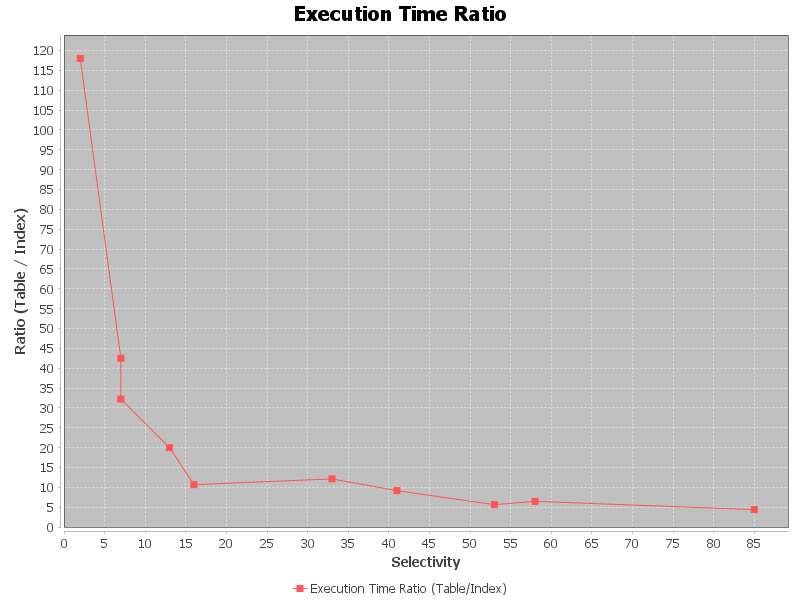
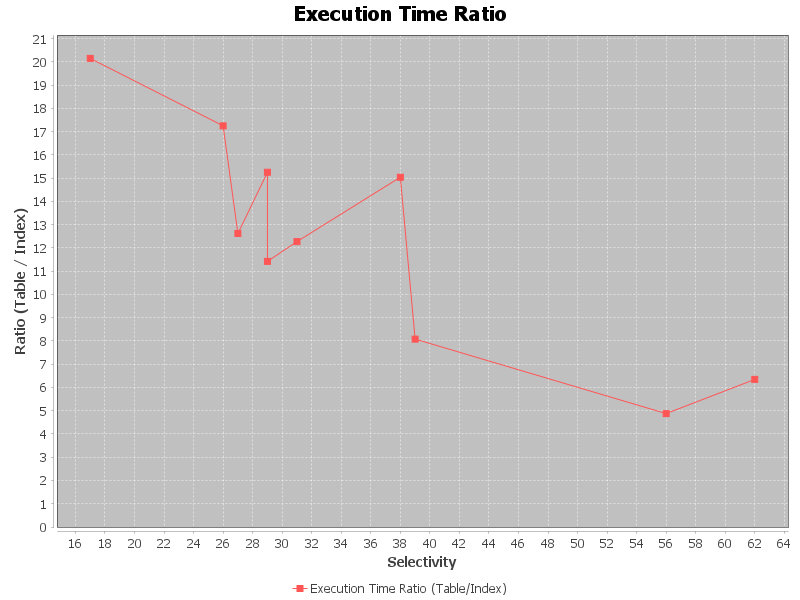
updated graphs and units

diff --git a/src/test/java/com/database/finalproject/btree/BTreeCorrectnessAndPerformanceTest.java b/src/test/java/com/database/finalproject/btree/BTreeCorrectnessAndPerformanceTest.java
@@ -272,7 +272,7 @@ public class BTreeCorrectnessAndPerformanceTest {
             long startTableTime = System.nanoTime();
             List<Row> result = rangeSearchSequentialScan(startKey, endKey, ATTR_TYPE_TITLE);
             long endTableTime = System.nanoTime();
-            queryTimes[i] = (endTableTime - startTableTime);
+            queryTimes[i] = (endTableTime - startTableTime) / 1000000;
             rowsReturned[i] = result.size();
 
             long startIdTime = System.nanoTime();
@@ -288,7 +288,7 @@ public class BTreeCorrectnessAndPerformanceTest {
                 bf.unpinPage(pageId, DATA_PAGE_INDEX);
             }
             long endIdTime = System.nanoTime();
-            queryTimesIndex[i] = (endIdTime - startIdTime);
+            queryTimesIndex[i] = (endIdTime - startIdTime) / 1000000;
             // rowsReturned[i] = result2.size();
 
             double selectivity = (double) rowsReturned[i] / TOTAL_RECORDS_TITLE * 100;
@@ -296,7 +296,7 @@ public class BTreeCorrectnessAndPerformanceTest {
         }
 
         // Create charts
-        JFreeChart execTimeChart = createExecutionTimeChart(selectivities, queryTimes, queryTimesIndex);
+        JFreeChart execTimeChart = createExecutionTimeChart(selectivities, queryTimes, queryTimesIndex, "(ms)");
         JFreeChart ratioChart = createRatioChart(selectivities, queryTimes, queryTimesIndex);
 
         // Write PNGs (test-safe!)
@@ -328,7 +328,7 @@ public class BTreeCorrectnessAndPerformanceTest {
             long startTableTime = System.nanoTime();
             List<Row> result = rangeSearchSequentialScan(startKey, endKey, ATTR_TYPE_ID);
             long endTableTime = System.nanoTime();
-            queryTimes[i] = (endTableTime - startTableTime);
+            queryTimes[i] = (endTableTime - startTableTime) / 1000000;
             rowsReturned[i] = result.size();
 
             long startIdTime = System.nanoTime();
@@ -344,7 +344,7 @@ public class BTreeCorrectnessAndPerformanceTest {
                 bf.unpinPage(pageId, DATA_PAGE_INDEX);
             }
             long endIdTime = System.nanoTime();
-            queryTimesIndex[i] = (endIdTime - startIdTime);
+            queryTimesIndex[i] = (endIdTime - startIdTime) / 1000000;
             // rowsReturned[i] = result2.size();
 
             double selectivity = (double) rowsReturned[i] / TOTAL_RECORDS_ID * 100;
@@ -352,7 +352,7 @@ public class BTreeCorrectnessAndPerformanceTest {
         }
 
         // Create charts
-        JFreeChart execTimeChart = createExecutionTimeChart(selectivities, queryTimes, queryTimesIndex);
+        JFreeChart execTimeChart = createExecutionTimeChart(selectivities, queryTimes, queryTimesIndex, "(ms)");
         JFreeChart ratioChart = createRatioChart(selectivities, queryTimes, queryTimesIndex);
 
         // Write PNGs (test-safe!)
@@ -407,7 +407,7 @@ public class BTreeCorrectnessAndPerformanceTest {
         }
 
         // Create charts
-        JFreeChart execTimeChart = createExecutionTimeChart(ranges, scanTableTimes, scanIdIndexTimes);
+        JFreeChart execTimeChart = createExecutionTimeChart(ranges, scanTableTimes, scanIdIndexTimes, "(ns)");
         JFreeChart ratioChart = createRatioChart(ranges, scanTableTimes, scanIdIndexTimes);
 
         // Write PNGs (test-safe!)
@@ -529,7 +529,7 @@ public class BTreeCorrectnessAndPerformanceTest {
         }
 
         // Create charts
-        JFreeChart execTimeChart = createExecutionTimeChart(ranges, scanTableTimes, scanIdIndexTimes);
+        JFreeChart execTimeChart = createExecutionTimeChart(ranges, scanTableTimes, scanIdIndexTimes, "(ns)");
         JFreeChart ratioChart = createRatioChart(ranges, scanTableTimes, scanIdIndexTimes);
 
         // Write PNGs (test-safe!)
@@ -538,7 +538,7 @@ public class BTreeCorrectnessAndPerformanceTest {
     }
 
     private static JFreeChart createExecutionTimeChart(int[] ranges, long[] scanTableTimes,
-            long[] scanTitleIndexTimes) {
+            long[] scanTitleIndexTimes, String unit) {
         XYSeries tableSeries = new XYSeries("Scan Table");
         XYSeries indexSeries = new XYSeries("Scan Index");
 
@@ -554,7 +554,7 @@ public class BTreeCorrectnessAndPerformanceTest {
         JFreeChart chart = ChartFactory.createXYLineChart(
                 "Query Execution Time",
                 "Selectivity",
-                "Execution Time",
+                "Execution Time " + unit,
                 dataset,
                 PlotOrientation.VERTICAL,
                 true, true, false);

diff --git a/src/main/java/com/database/finalproject/btree/BTreeImpl.java b/src/main/java/com/database/finalproject/btree/BTreeImpl.java
@@ -10,7 +10,6 @@ import java.util.*;
 import static com.database.finalproject.constants.PageConstants.*;
 
 public class BTreeImpl implements BTree<String, Rid> {
-    // TODO: Btree-id changes?
 
     BufferManager bf;
     int rootPageId;
